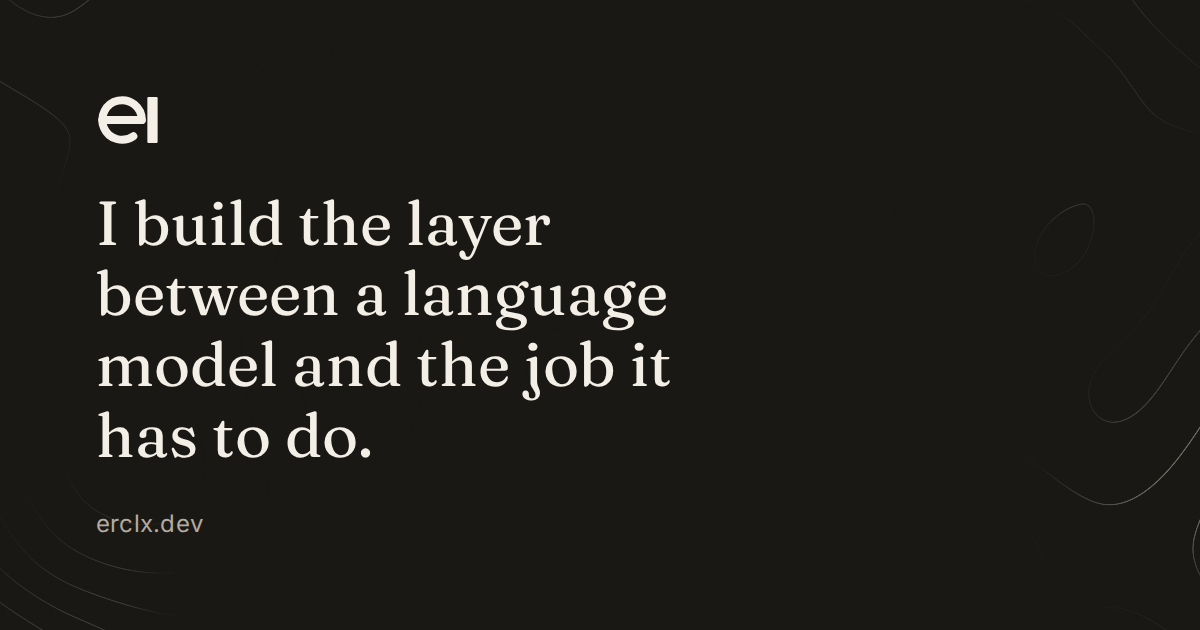
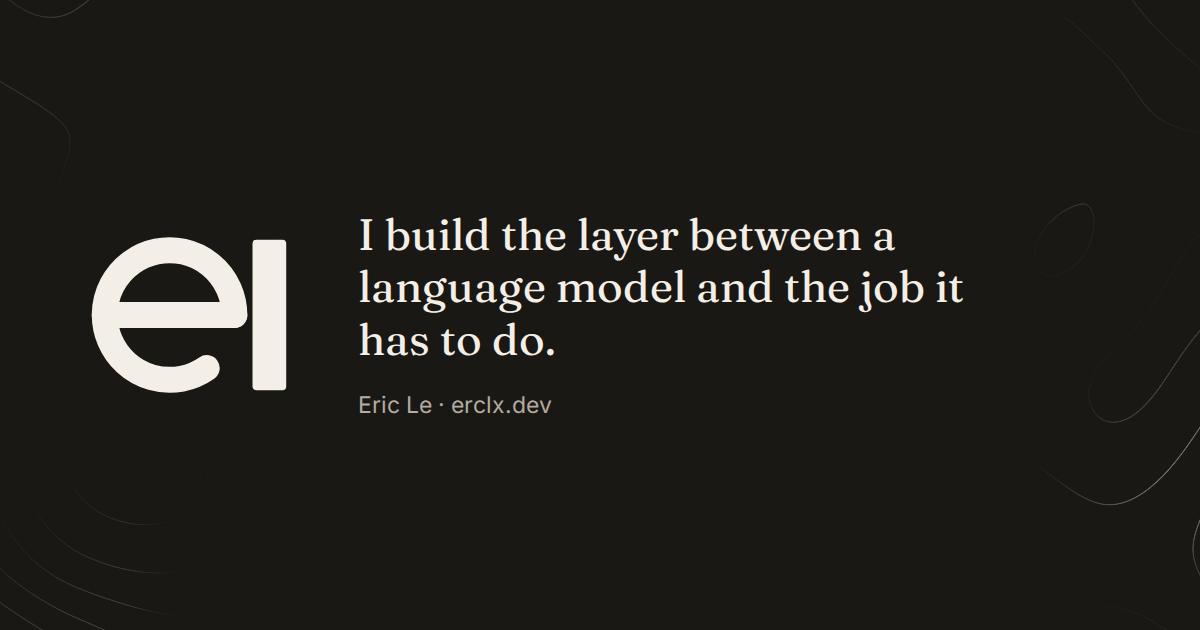
feat(brand): put the mark beside the name and rebuild the card on it

Changed region(s): [[0.0617, 0.3016, 0.8017, 0.7238], [0.0617, 0.1508, 0.1542, 0.2413], [0.0617, 0.8143, 0.185, 0.8444]]

diff --git a/scripts/share-card.ts b/scripts/share-card.ts
@@ -5,10 +5,16 @@
  * site's own Fraunces and the tokens are the ones it ships. A card drawn in a
  * fallback face is a card judged on the wrong letterforms.
  *
- * It carries the claim and the mark and no name. Every host that renders this
- * image prints the page title beside it, so a name inside the image is the same
- * word twice in one unfurl. What the image adds is the sentence the title has
- * no room for.
+ * The mark leads and the claim sits beside it. Two earlier arrangements put the
+ * name in the image at display weight, which is the same word twice in one
+ * unfurl since every host prints the title alongside. Attribution stays, small
+ * and under the claim, because a host shows the domain and not always the
+ * person.
+ *
+ * The claim runs 22 characters to the line. Judged at 1200 a longer line looks
+ * fuller, and a card is met at 400 to 600 in a feed and smaller in a compact
+ * unfurl, where the longer setting goes thin and the shorter one holds. Judge
+ * this downscaled or the reading is of a size nobody sees.
  *
  * Run: bun scripts/share-card.ts, with the site served at CARD_BASE_URL.
  */
@@ -75,13 +81,15 @@ await page.evaluate(
       <div style="position:fixed;inset:0;background:var(--background);overflow:hidden">
         <img src="${field}"
           style="position:absolute;inset:0;width:100%;height:100%;object-fit:cover">
-        <div style="position:absolute;inset:0;padding:88px 96px;display:flex;
-          flex-direction:column;justify-content:space-between">
-          <span style="width:64px;height:64px;display:block;color:var(--foreground)">${MARK}</span>
-          <p style="margin:0;font-family:var(--font-display);font-size:62px;
-            line-height:1.14;color:var(--foreground);max-width:17ch">${CLAIM}</p>
-          <p style="margin:0;font-size:24px;letter-spacing:0.01em;
-            color:var(--muted-foreground)">erclx.dev</p>
+        <div style="position:absolute;inset:0;padding:0 84px;display:flex;
+          align-items:center;gap:64px">
+          <span style="width:210px;height:210px;flex:none;display:block;
+            color:var(--foreground)">${MARK}</span>
+          <div style="display:flex;flex-direction:column;gap:22px">
+            <p style="margin:0;font-family:var(--font-display);font-size:44px;
+              line-height:1.2;color:var(--foreground);max-width:22ch">${CLAIM}</p>
+            <p style="margin:0;font-size:23px;color:var(--muted-foreground)">Eric Le · erclx.dev</p>
+          </div>
         </div>
       </div>`,
   },
